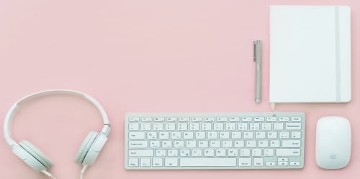
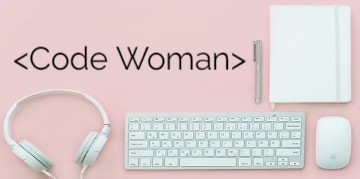
Bjando archivos

Changed region(s): [[0.0306, 0.2514, 0.7028, 0.3911]]

diff --git a/src/style.css b/src/style.css
@@ -1,189 +1,89 @@
-.gmail{
-    border-radius: 15px;
-    }
-    #FB{
-       border-radius: 30px;
-    }
-    body{
-        background-image: url(./img/portada.jpg);
-        background-repeat: no-repeat;
-    }
-    h1{
-    position: absolute;
-    width: 265.94px;
-    height: 45.33px;
-    left: 52.03px;
-    top: 165px;
-    
-    font-family: Rajdhani;
-    font-style: normal;
-    font-weight: normal;
-    font-size: 18px;
-    line-height: 23px;
+body{
+    font-family: 'Raleway', sans-serif;
+}
+.container{
+    padding: 60px 0;
+    width: 90%;
+    max-width: 1000px;
+    margin: auto;
+    overflow: hidden;
+}
+.imgportada{
+   background-size: cover;
+   width: 100%;
+   padding: auto;
+}
+.estilobienvenida{
+    font-family: 'Raleway', sans-serif;
+    text-align: center;
+}
+.imglogo{
+    width: 20px;
+    height: 26px;
+}
+input {
+    width: 200px;
+    padding: 8px;
+    border-radius: 25px;
+    margin-left: 65px;
     text-align: center;
     
-    color: #000000;
-    }
-    img{
-    
-    position: absolute;
-    width: 106.38px;
-    height: 96px;
-    left: 132.12px;
-    top: 230px;
-    }
-    p{
-    position: absolute;
-    width: 39.59px;
-    height: 16px;
-    left: 170px;
-    top: 272px;
-    }
-    #gmail{
-     position: absolute;
-    width: 230px;
-    height: 30px;
-    left: 61.5px;
-    top: 337px;
-    
+
+  }
+  .email{
+      margin-top: 50px;
+      margin-bottom: 8px;
+      background: rgba(147, 72, 232, 0.3);
+  }
+  .password{
     background: rgba(147, 72, 232, 0.3);
-    border-radius: 25px;
-    }
-    #Password{
-        position: absolute;
-        width: 230px;
-        height: 30px;
-        left: 64.5px;
-        top: 379px;
-        
-        background: rgba(147, 72, 232, 0.3);
-        border-radius: 25px;
-    }
-    #Ingresa{
-        position: absolute;
-    width: 130px;
-    height: 25px;
-    left: 116px;
-    top: 420px;
-    
-    background: rgba(147, 72, 232, 0.3);
-    border-radius: 25px;
-    }
-    .pas{
-        position: relative;
-        width: 110px;
-        height: 17px;
-        left: 124.5px;
-        top: 440px;
-        
-        font-family: Rajdhani;
-        font-style: normal;
-        font-weight: normal;
-        font-size: 13px;
-        line-height: 17px;
-        /* identical to box height */
-        text-decoration-line: underline;
-        color: #2641D0;
-    }
-    .pass{
-        position: absolute;
-    width: 72px;
-    height: 18px;
-    left: 148px;
-    top: 459px;
-    
-    font-family: Rajdhani;
-    font-style: normal;
-    font-weight: normal;
-    font-size: 14px;
-    line-height: 18px;
-    /* identical to box height */
-    
-    display: flex;
-    align-items: flex-end;
-    
-    color: #000000;
-    }
-    #gm{
-        position: absolute;
-    width: 45px;
-    height: 45px;
-    left: 127px;
-    top: 499px;
-    }
-    #FB{
-        position: absolute;
-    width: 40px;
-    height: 40px;
-    left: 196px;
-    top: 500px;
-    }
-    .p{
-        position: absolute;
-    width: 141px;
-    height: 23px;
-    left: 119px;
-    top: 538px;
-    
-    font-family: Rajdhani;
-    font-style: normal;
-    font-weight: normal;
-    font-size: 18px;
-    line-height: 23px;
-    /* identical to box height */
-    
-    
-    color: #000000;
-    }
-    .re{
-        position: absolute;
-    width: 76px;
-    height: 23px;
-    left: 145px;
-    top: 560px;
-    
-    font-family: Rajdhani;
-    font-style: normal;
-    font-weight: normal;
-    font-size: 18px;
-    line-height: 23px;
-    /* identical to box height */
-    
-    display: flex;
-    align-items: flex-end;
+  }
+   .ingresa{
+       margin-top: 8px;
+       width: 130px;
+       margin-left: 115px;
+       background: rgba(147, 72, 232, 0.3);
+   }
+   p.pas{
+    font-family: 'Raleway', sans-serif;
     text-decoration-line: underline;
-    
     color: #2641D0;
-    }
-    .dr{
-        position: absolute;
-    width: 159px;
-    height: 18px;
-    left: 115px;
-    top: 622px;
-    
-    font-family: Rajdhani;
-    font-style: normal;
-    font-weight: normal;
-    font-size: 14px;
-    line-height: 18px;
-    text-decoration-line: underline;
-    
-    color: #000000;
-    
-    }
-    h2{
-        position: absolute;
-    width: 249.25px;
+    text-align: center;
+   }
+ .logoF{
+    border-radius: 50px;
+    margin-left: 120px;
+    margin-right: 20px;
     height: 40px;
-    left: 40px;
-    top: 10.42px;
-    
-    font-family: Raleway;
-    font-style: normal;
-    font-weight: 200;
-    font-size: 33px;
-    line-height: 39px;
-    
-    color: #000000;
-    }
+    width: 40px;
+    display: inline-block;
+ }
+ .logoG{
+    height: 40px;
+    width: 40px;
+    border-radius: 50px;
+ }
+ .sincuenta{
+    font-family: 'Raleway', sans-serif;
+    text-align: center;
+ }
+ .re{
+    font-family: 'Raleway', sans-serif;
+    text-align: center;
+    text-decoration-line: underline;
+    color: #2641D0;
+ }
+ .dr{
+     text-align: center;
+     font-family: 'Raleway', sans-serif;
+     margin-top: 2px;
+     margin-bottom: 2px;
+ }
+ .imagen{
+   width: 360px;
+    height: 179px;
+    left: 0px;
+    top: -1.5px;
+ }
+
+ 

diff --git a/src/index.html b/src/index.html
@@ -5,26 +5,12 @@
   <meta name="viewport" content="width=device-width, initial-scale=1.0">
   <meta http-equiv="X-UA-Compatible" content="ie=edge">
   <link rel="stylesheet" href="style.css">
-  <title>Document</title>
+  <title>Aplicacion Red Social</title>
+  <link href="https://fonts.googleapis.com/css2?family=Raleway:wght@300&display=swap" rel="stylesheet">
 </head>
 <body>
   <div id="root"></div>
-  <h1>Bienvenida  a nuestra comunidad de  programadoras.</h1>
-  <h2>Code Woman</h2>
-  <img src="./img/logo.jpeg">
-    <p>CW</p>
-    <input type="text" id="gmail" placeholder="example@gmail.com">
-    <input type="text" id="Password" placeholder="Password">
-    <input type="button" value="Ingresar" id="Ingresa">
-    <p class="pas">Olvide mi contraseña</p>
-    <p class="pass">Ingresa con:</p>
-    <p class="p">¿No tienes cuenta?</p>
-    <p class="re" id="registro">Registrate</p>
-    <p class="dr">Developed © 2020 CW, Inc.</p>
-  <input type="image" src='./img/G.jpg' id='gm'>
-  <input type="image" src='./img/F.jpg' id='FB'>
-  <div id="root"></div>
-  <script src="https://www.gstatic.com/firebasejs/6.2.0/firebase-app.js"></script>
+<script src="https://www.gstatic.com/firebasejs/6.2.0/firebase-app.js"></script>
  <script>
   var firebaseConfig = {
     apiKey: "AIzaSyANmPJ0eNQMwQak-rf6N5om4pg5rd7ikbU",
@@ -41,7 +27,7 @@
   <script src="https://www.gstatic.com/firebasejs/6.2.0/firebase-auth.js"></script>
   <script src="https://www.gstatic.com/firebasejs/6.2.0/firebase-firestore.js"></script>
   <script type="module" src='index.js'></script>
+  <script  src="/components/login.js"></script>
+  <script  src="/components/registro.js"></script>
 </body>
-
-
 </html>

diff --git a/src/components/login.js b/src/components/login.js
@@ -1,0 +1,29 @@
+let root =  document.querySelector('#root');
+
+const login =  `
+ <div class="container">
+    <div class="imgportada">
+      <img class="imagen" src="/img/portada.jpg">
+    </div>
+       <div class= "contenido">
+         <p class="estilobienvenida"> Bienvenida a nuestra comunidad  
+         de programadoras </p>
+         
+          <div class ="inputslogin">
+             <input type="text" id="email" class="email"placeholder="example@gmail.com">
+             <input type="text" id="password" class="password" placeholder="Password">
+             <input type="button" value="Ingresar" id="ingresa" class="ingresa">
+          </div>
+          <p class="pas">Olvide mi contraseña</p>
+              <input type="image" src="/img/F.jpg" class="logoF">
+              <input type="image" src="/img/G.jpg" class="logoG"> 
+          <p class="sincuenta">¿No tienes cuenta?</p>
+          <p class="re" id="registro">Registrate</p>
+          </div>
+       <footer>
+         <p class="dr">Developed © 2020 CW, Inc.</p>
+       </footer> 
+  </div>
+    `;
+
+root.innerHTML = login;

diff --git a/src/components/registro.js b/src/components/registro.js
@@ -1,0 +1,14 @@
+//let root =  document.querySelector('#root');
+
+const registro =  `
+   <div class="form">
+    <input class="namer" id="namer" type="text" placeholder="Nombre">
+    <input class="emailr" id="emailr" type="email" placeholder="Correo Electronico">
+    <input class="passr" id="passr" type="password" placeholder="Contraseña">
+    <input class="cpassr" id="cpassr" type="password" placeholder="Confirmar Contraseña">
+   </div>
+   
+   <input type="button" value="Crear cuenta" id="crearcuenta" class="crearcuenta">
+`;
+
+//root.innerHTML = registro;

diff --git a/src/index.js b/src/index.js
@@ -1,4 +1,4 @@
-import { example } from './example.js';
+//import { example } from './example.js';
 
 
-example();
+//example();
